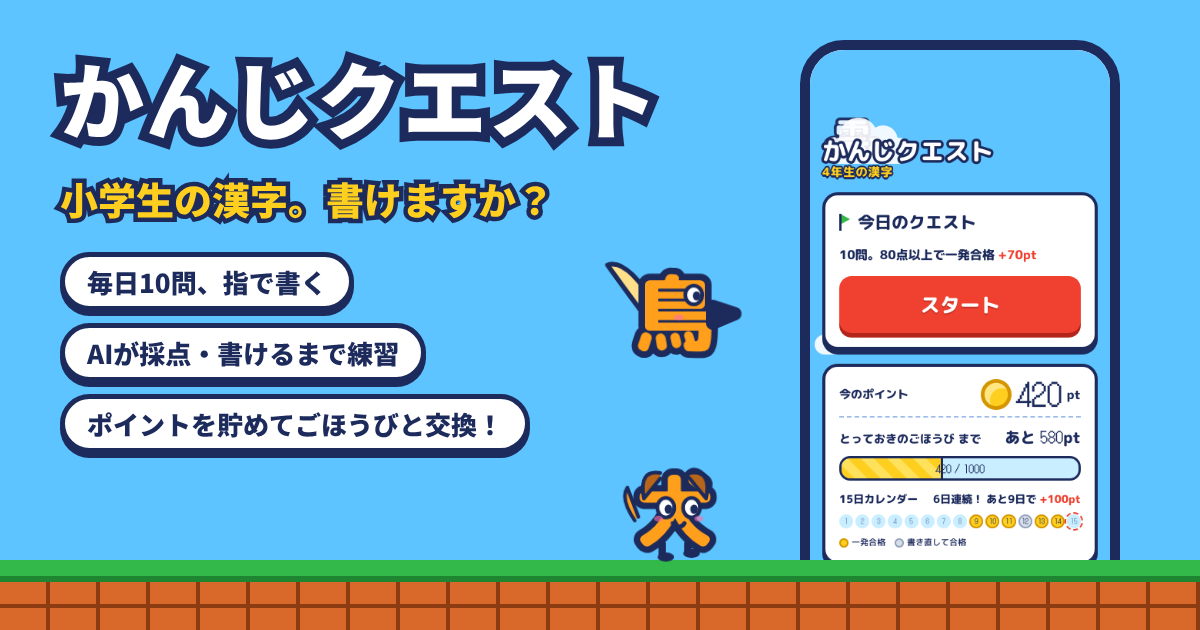
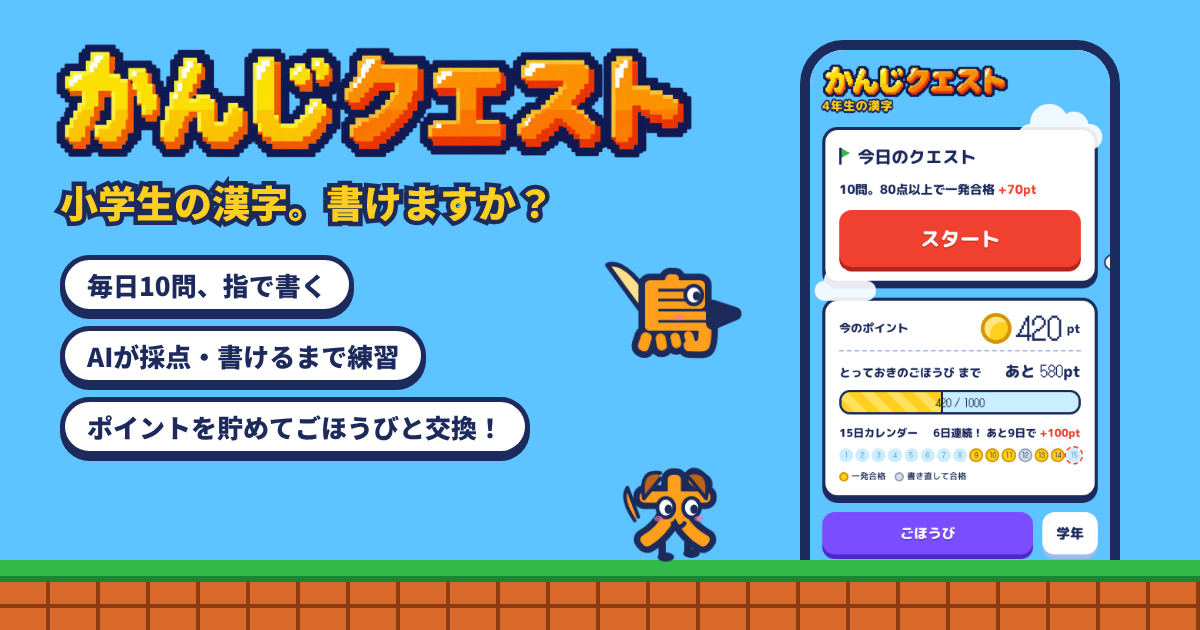
タイトルロゴ画像、タブレット2列レイアウト、地面を全幅に、書く画面の高さ調整、雲がレイアウトを押し広げる不具合を修正
Claude-Session: https://claude.ai/code/session_01FmakvVfJpLi1M4Guy7drd2

Changed region(s): [[0.6783, 0.0905, 0.925, 0.9048], [0.0308, 0.0603, 0.5858, 0.3619], [0.0308, 0.3921, 0.4625, 0.754]]

diff --git a/index.html b/index.html
@@ -81,6 +81,8 @@ button:focus-visible{outline:4px solid var(--ink);outline-offset:3px}
 .c1{width:110px;height:34px;top:96px;right:-6px}.c1::before{width:50px;height:50px;left:16px;top:-26px}.c1::after{width:38px;height:38px;left:54px;top:-16px}
 .c2{width:80px;height:26px;top:300px;left:-10px}.c2::before{width:36px;height:36px;left:12px;top:-18px}.c2::after{width:28px;height:28px;left:40px;top:-12px}
 #home>*{position:relative;z-index:1}
+#home>.cloud,#welcome>.cloud{position:absolute;z-index:0}
+@media (min-width:760px){#home>.cloud{display:none}}
 .top{display:flex;align-items:center;justify-content:space-between;gap:12px;flex-wrap:wrap}
 .logo{font-family:var(--f-body);font-weight:800;font-size:clamp(28px,8vw,40px);line-height:1.1;color:#fff;letter-spacing:.02em;
   -webkit-text-stroke:.22em var(--ink);paint-order:stroke fill;text-shadow:0 .1em 0 var(--ink)}
@@ -122,7 +124,7 @@ button:focus-visible{outline:4px solid var(--ink);outline-offset:3px}
 .legend span{display:flex;align-items:center;gap:4px}
 .legend .st{width:12px;height:12px}
 
-.ground{position:relative;margin-top:auto;height:56px;margin-left:calc(-1*max(16px,env(safe-area-inset-left,0px)));margin-right:calc(-1*max(16px,env(safe-area-inset-right,0px)));
+.ground{position:relative;margin-top:auto;height:56px;margin-left:calc(50% - 50vw);margin-right:calc(50% - 50vw);
   background:
    linear-gradient(var(--green) 0 10px,var(--green-d) 10px 14px,transparent 14px),
    repeating-linear-gradient(90deg,transparent 0 30px,var(--brick-d) 30px 33px),
@@ -133,7 +135,7 @@ button:focus-visible{outline:4px solid var(--ink);outline-offset:3px}
 .foot-row .btn{flex:1;font-size:18px}
 
 /* ---- テスト ---- */
-#quiz{height:100%;min-height:0;padding-block:10px 14px;gap:10px;background:transparent}
+#quiz{height:100%;height:calc(100dvh - env(safe-area-inset-top,0px) - env(safe-area-inset-bottom,0px));min-height:0;box-sizing:border-box;padding-block:8px 20px;gap:8px;background:transparent;overflow:hidden}
 .qbar{display:flex;align-items:center;gap:10px}
 .xbtn{width:40px;height:40px;border-radius:12px;background:rgba(255,255,255,.55);font-size:22px;line-height:1;flex:none}
 .dots{flex:1;display:flex;gap:4px;justify-content:center}
@@ -142,15 +144,15 @@ button:focus-visible{outline:4px solid var(--ink);outline-offset:3px}
 .dots .coin.miss{opacity:.9;filter:none;background:#fff;box-shadow:inset 0 0 0 .12em var(--red)}
 .dots .coin.now{opacity:1;filter:none;background:#fff;box-shadow:inset 0 0 0 .12em var(--ink)}
 .qnum{font-family:var(--f-pixel);font-size:18px;width:52px;text-align:right;flex:none}
-.sentence{padding:14px 16px;font-size:clamp(21px,5.6vw,30px);line-height:1.7;font-weight:800;text-align:center;text-wrap:balance}
+.sentence{padding:10px 14px;flex:none;font-size:clamp(19px,5.2vw,30px);line-height:1.7;font-weight:800;text-align:center;text-wrap:balance}
 .blank{display:inline-block;background:var(--yellow);border:3px solid var(--ink);border-radius:10px;padding:0 .3em;margin:0 .1em;line-height:1.35;color:var(--ink)}
-.stage{flex:1;min-height:180px;display:flex;align-items:center;justify-content:center;position:relative}
+.stage{flex:1;min-height:120px;display:flex;align-items:center;justify-content:center;position:relative}
 .board{position:relative;border:4px solid var(--ink);border-radius:18px;overflow:hidden;box-shadow:0 6px 0 var(--ink);background:var(--paper)}
 .board canvas{position:absolute;left:0;top:0;touch-action:none}
 #ink{cursor:crosshair}
 #guide,#over{pointer-events:none}
-.tools{display:flex;gap:10px}
-.tools .btn{font-size:18px;padding:14px 12px}
+.tools{display:flex;gap:10px;flex:none;padding-bottom:6px}
+.tools .btn{font-size:18px;padding:12px}
 .tools .btn.small{flex:0 0 auto;min-width:76px}
 .tools .btn.grow{flex:1}
 .walk{position:absolute;left:0;bottom:100%;width:100%;height:60px;overflow:visible;pointer-events:none;image-rendering:pixelated}
@@ -159,6 +161,25 @@ button:focus-visible{outline:4px solid var(--ink);outline-offset:3px}
 .now-v{display:flex;align-items:center;gap:6px;font-size:40px;line-height:1}
 .now-v .pixel{font-variant-numeric:tabular-nums}
 .now-v small{font-size:16px}
+/* ---- ホームの組み立て（スマホは1列、タブレット以上は2列） ---- */
+.home-main,.home-side{display:contents}
+@media (min-width:760px){
+  #home{max-width:1040px;display:grid;grid-template-columns:minmax(0,1.1fr) minmax(0,1fr);grid-template-rows:auto auto auto 1fr auto auto;column-gap:24px;row-gap:18px}
+  #home>.top{grid-column:1/-1;grid-row:1}
+  .home-main,.home-side{display:flex;flex-direction:column;gap:18px;min-width:0}
+  .home-main{grid-column:1;grid-row:2;align-self:start}
+  .home-side{grid-column:2;grid-row:2;align-self:start}
+  #home>.info{grid-column:1/-1;grid-row:3}
+  #home>.walk-space{grid-column:1/-1;grid-row:5}
+  #home>.ground{grid-column:1/-1;grid-row:6}
+  .bigstart{font-size:30px;padding:22px}
+  .logo-img{width:360px}
+  #welcome{max-width:760px}
+  .quest .status{font-size:18px}
+  .grade-row button{aspect-ratio:auto;height:84px;font-size:30px}
+  .wl-tag{font-size:22px}
+  #welcome{padding-top:6vh}
+}
 /* ---- シェア ---- */
 .share{padding:14px 16px;display:flex;flex-direction:column;gap:10px}
 .share h3{margin:0;font-size:16px}
@@ -167,7 +188,7 @@ button:focus-visible{outline:4px solid var(--ink);outline-offset:3px}
 .share-btns>*{flex:1}
 .share-btns .btn{font-size:15px;padding:10px 6px;text-decoration:none}
 .share-home{padding:12px 16px}
-.share-img{width:100%;max-width:100%;aspect-ratio:1;border:3px solid var(--ink);border-radius:12px;display:block;background:var(--sky-lite);-webkit-touch-callout:default;-webkit-user-select:auto;user-select:auto}
+.share-img{width:100%;max-width:min(100%,420px);margin:0 auto;aspect-ratio:1;border:3px solid var(--ink);border-radius:12px;display:block;background:var(--sky-lite);-webkit-touch-callout:default;-webkit-user-select:auto;user-select:auto}
 .share-tip{margin:0;font-size:11px;font-weight:500;line-height:1.5}
 #shareSave,#hsSave{font-size:15px;padding:10px}
 .img-modal{position:fixed;inset:0;z-index:70;background:rgba(28,42,92,.85);display:flex;flex-direction:column;align-items:center;justify-content:center;gap:12px;padding:20px}
@@ -189,7 +210,9 @@ button:focus-visible{outline:4px solid var(--ink);outline-offset:3px}
 #welcome{padding-block:24px 0;gap:22px;position:relative}
 #welcome>*{position:relative;z-index:1}
 .wl-hero{text-align:center;padding-top:28px;display:flex;flex-direction:column;gap:10px;align-items:center}
-.wl-logo{font-size:clamp(40px,12vw,60px)}
+.wl-logo{font-size:clamp(40px,12vw,60px);width:100%}
+.logo-img{display:block;width:min(300px,62vw);height:auto;image-rendering:auto}
+.wl-logo .logo-img{width:min(520px,100%);margin:0 auto}
 .wl-tag{margin:0;font-size:17px;color:#fff;-webkit-text-stroke:4px var(--ink);paint-order:stroke fill}
 #onboard{padding-block:16px;gap:16px}
 .ob-top{display:flex;justify-content:space-between;align-items:center}
@@ -343,7 +366,7 @@ button:focus-visible{outline:4px solid var(--ink);outline-offset:3px}
 <main id="welcome" class="screen" hidden>
   <div class="cloud c1"></div><div class="cloud c2"></div>
   <div class="wl-hero">
-    <div class="logo wl-logo">かんじクエスト</div>
+    <div class="logo wl-logo"><img class="logo-img" alt="かんじクエスト" width="1000" height="184"></div>
     <p class="wl-tag">小学生の漢字。書けますか？</p>
   </div>
   <section class="panel su-sec">
@@ -365,10 +388,11 @@ button:focus-visible{outline:4px solid var(--ink);outline-offset:3px}
 <main id="home" class="screen">
   <div class="cloud c1"></div><div class="cloud c2"></div>
   <div class="top">
-    <div class="logo">かんじクエスト<small id="gradeLabel">4年生の漢字</small></div>
+    <div class="logo"><img class="logo-img" alt="かんじクエスト" width="1000" height="184"><small id="gradeLabel">4年生の漢字</small></div>
     <div class="wallet" hidden><span class="coin"></span><span class="num" id="pts">0</span><span class="unit">pt</span></div>
   </div>
 
+  <div class="home-main">
   <section class="panel quest">
     <h2><span class="flag"></span><span id="qTitle">今日のクエスト</span></h2>
     <div class="status" id="status"></div>
@@ -383,7 +407,9 @@ button:focus-visible{outline:4px solid var(--ink);outline-offset:3px}
     <div class="stamp-row" id="stampRow"></div>
     <div class="legend"><span><i class="st gold"></i>一発合格</span><span><i class="st silver"></i>書き直して合格</span></div>
   </section>
+  </div>
 
+  <div class="home-side">
   <div class="foot-row">
     <button class="btn violet" id="shopBtn">ごほうび</button>
     <button class="btn white" id="setupBtn" style="flex:0 0 auto">学年</button>
@@ -412,6 +438,8 @@ button:focus-visible{outline:4px solid var(--ink);outline-offset:3px}
     </div>
     <button class="btn white" id="hsSave">画像を保存</button>
   </section>
+
+  </div>
 
   <section class="panel info">
     <div class="info-h">範囲</div>
@@ -1621,6 +1649,8 @@ function nowTerm(){const m=new Date().getMonth()+1;return m>=4&&m<=8?0:m>=9?1:2}
 function defaultFocus(g){const t=TERMS[g];let k=nowTerm();while(k<3&&!t[k])k++;return t[Math.min(k,2)]||GRADE_KANJI[g-1]}
 const BANK = BANK_SRC.split('\n').map((l,id)=>{const [s,a]=l.split('|');const m=s.match(/^(.*?)\[(.+?)\](.*)$/);return {id,pre:m[1],yomi:m[2],post:m[3],ans:a.trim()}});
 
[1 lines of base64/hex data omitted]
+document.querySelectorAll('img.logo-img').forEach(i=>i.src=LOGO_SRC);
 /* ===== ルール ===== */
 const PER_DAY=10, PASS=80;
 // 合格までの書き直し回数 → もらえるポイント（0=一発合格、5回以上は最低）
@@ -1980,8 +2010,8 @@ async function shareCard(o){const N=1080,c=document.createElement('canvas');c.wi
   x.fillStyle='#8C3C10';for(let i=0;i<N;i+=60){x.fillRect(i,N-60,4,60)}x.fillRect(0,N-32,N,4);
   // ロゴ
   x.textAlign='center';x.textBaseline='middle';x.lineJoin='round';
-  x.font=F('800 96px');x.lineWidth=18;x.strokeStyle='#1C2A5C';x.strokeText('かんじクエスト',N/2,110);x.fillStyle='#fff';x.fillText('かんじクエスト',N/2,110);
-  x.font=F('800 40px');x.fillStyle='#FFCF1F';x.lineWidth=10;x.strokeText(o.sub,N/2,190);x.fillText(o.sub,N/2,190);
+  {const lg=await loadImg(LOGO_SRC);if(lg){const lw=820,lh=lw*lg.height/lg.width;x.drawImage(lg,(N-lw)/2,110-lh/2,lw,lh)}}
+  x.font=F('800 40px');x.fillStyle='#FFCF1F';x.lineWidth=10;x.strokeText(o.sub,N/2,205);x.fillText(o.sub,N/2,205);
   // パネル
   x.fillStyle='#1C2A5C';rr(x,60,250,N-120,o.thumbs?600:470,36);x.fill();x.fillStyle='#fff';rr(x,60,240,N-120,o.thumbs?600:470,36);x.fill();
   x.fillStyle='#1C2A5C';x.font=F('800 '+(o.bigSize||150)+'px');x.fillText(o.big,N/2,o.thumbs?350:390);
